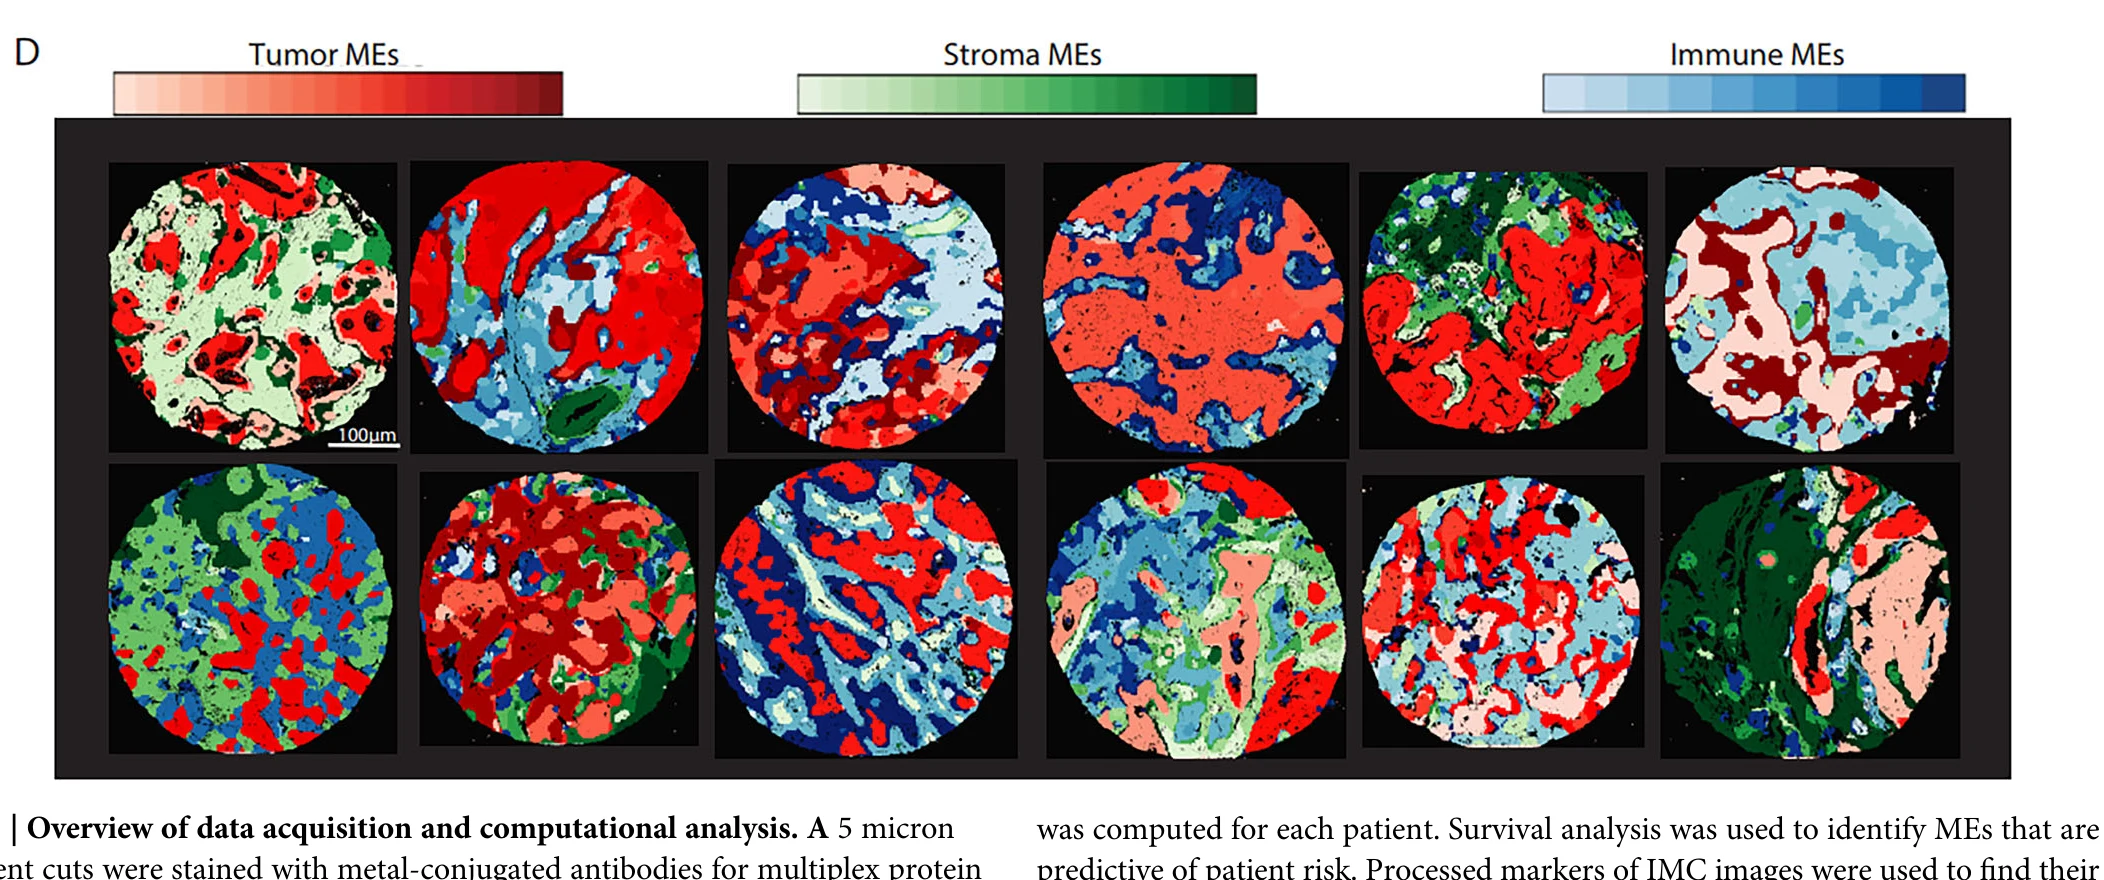
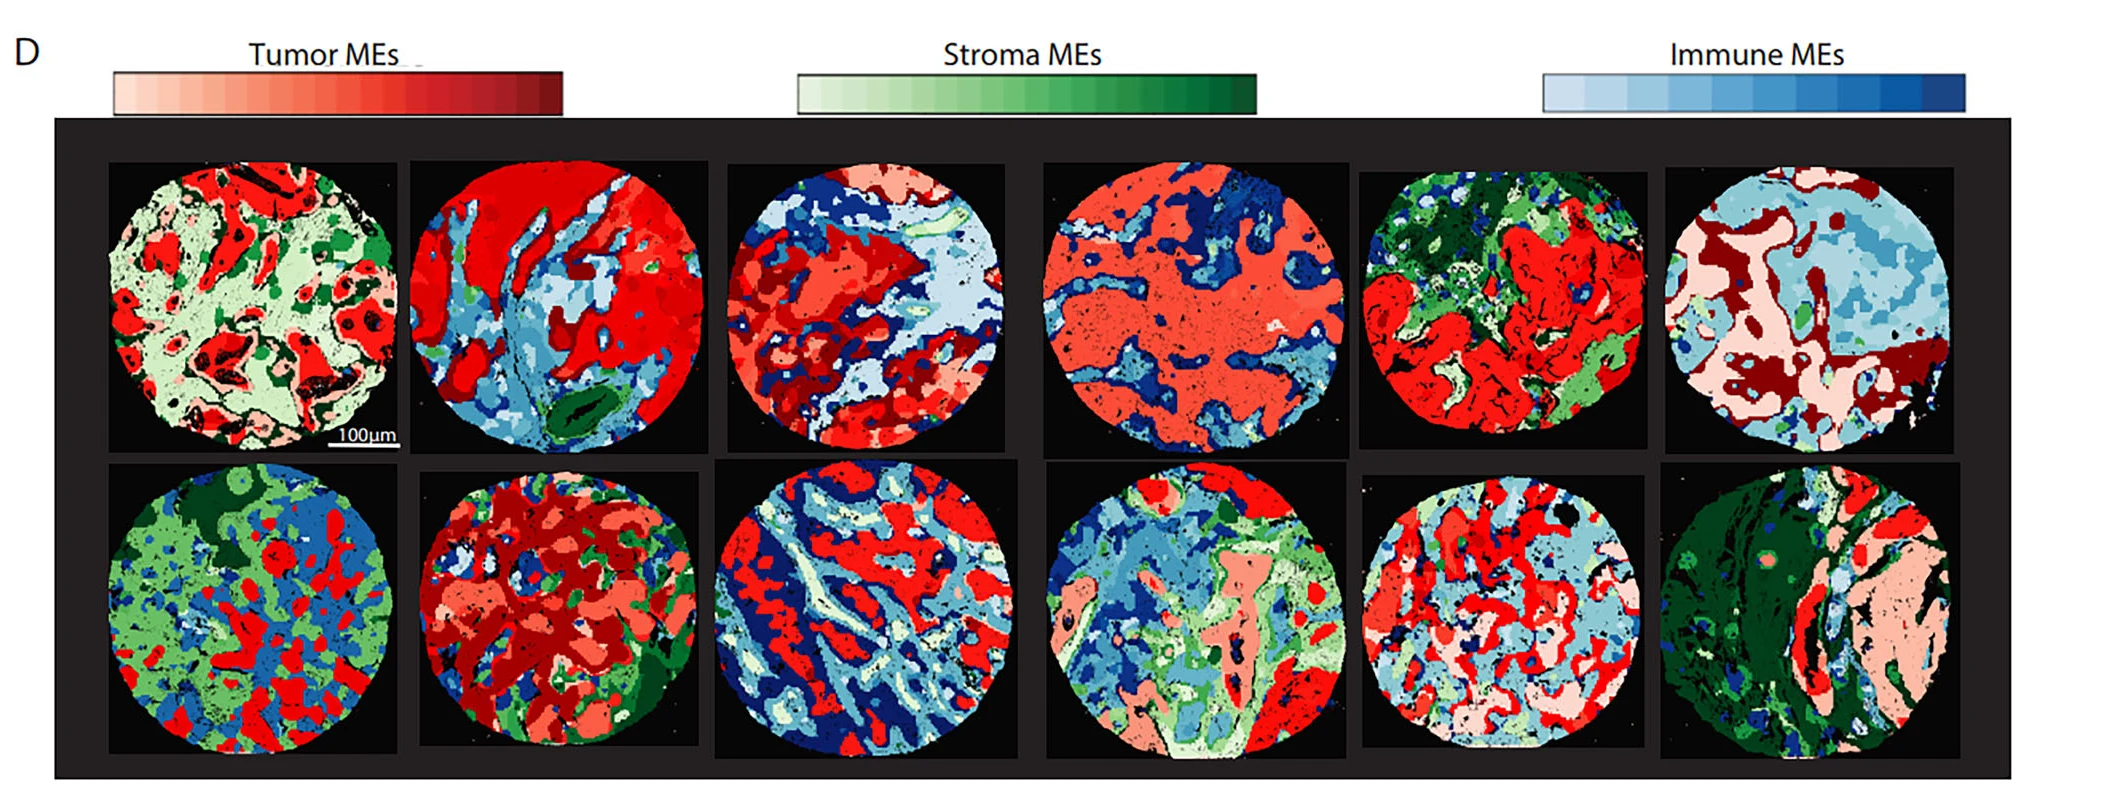
Fix remaining crop on spatial-protein-tnbc figure
Two prior attempts either re-cut the second row of tissue images or
left a caption sliver at the bottom. Found the true boundary by
scanning pixel rows for where the dark panel background actually ends.

Claude-Session: https://claude.ai/code/session_01RhhzF2g6K4NJXc8sggGV9y

diff --git a/docs/research.html b/docs/research.html
@@ -31,7 +31,7 @@
 <div class="highlight-grid">
   
   <a class="highlight-card" href="https://www.nature.com/articles/s43856-026-01400-4" target="_blank" rel="noopener">
-    <img src="static/images/highlights/spatial-protein-tnbc.webp?v=21fbb036" alt="Figure from Prediction of outcome from spatial protein profiling of triple-negative breast cancers">
+    <img src="static/images/highlights/spatial-protein-tnbc.webp?v=4aeb00d4" alt="Figure from Prediction of outcome from spatial protein profiling of triple-negative breast cancers">
     <div class="highlight-body">
       <h3>Prediction of outcome from spatial protein profiling of triple-negative breast cancers</h3>
       <p class="pub-meta">Communications Medicine, 2026</p>
